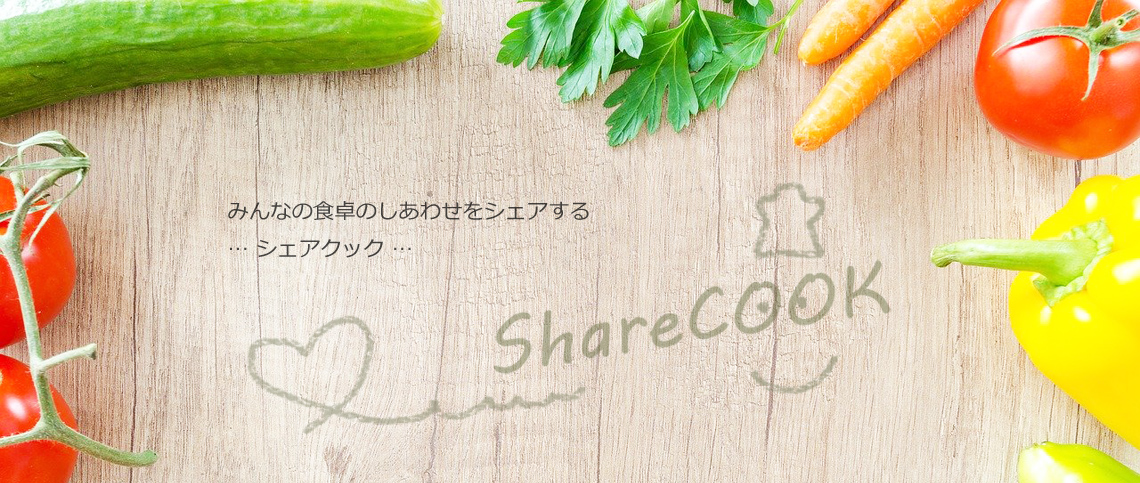
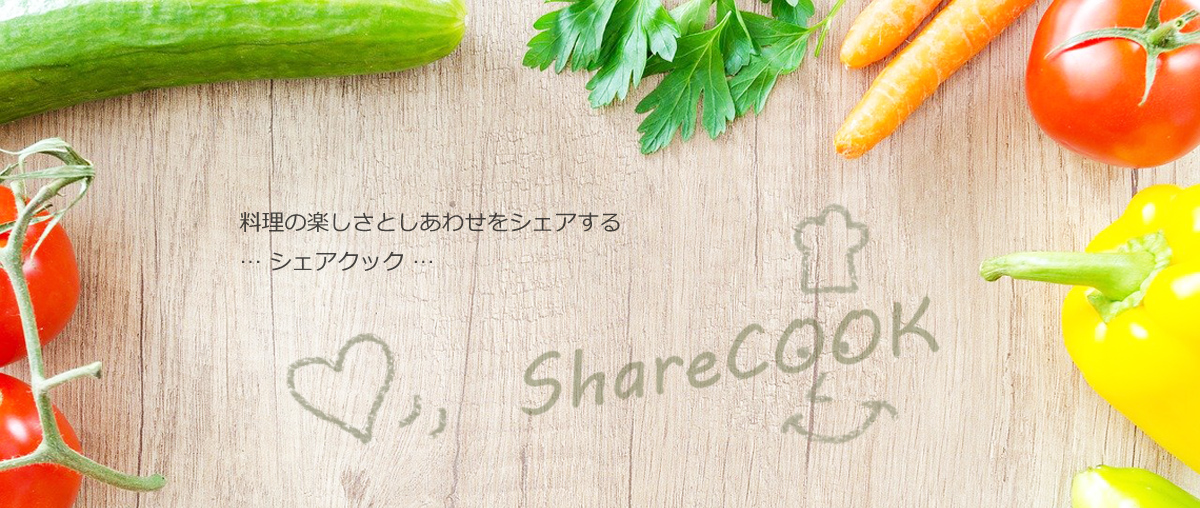
password reset functions and applying responsive function to toppage

diff --git a/public/css/common.css b/public/css/common.css
@@ -32,7 +32,13 @@ div.card .card-header{
 	color:#063;
 }
 
-
+img.top_pc { display: block !important; }
+img.top_sp { display: none !important; }
+ 
+@media only screen and (max-width: 768px) {
+    img.top_pc { display: none !important; }
+    img.top_sp { display: block !important; }
+}
 
 /* フッタ部 */
 

diff --git a/resources/views/workers/auth/passwords/reset.blade.php b/resources/views/workers/auth/passwords/reset.blade.php
@@ -1,20 +1,22 @@
-@extends('layouts.app')
+@extends('layouts.app_workers')
 
 @section('content')
 <div class="container">
     <div class="row justify-content-center">
         <div class="col-md-8">
             <div class="card">
-                <div class="card-header">{{ __('Reset Password') }}</div>
+                <div class="card-header">パスワード変更</div>
 
                 <div class="card-body">
-                    <form method="POST" action="{{ route('password.update') }}">
+                    メールアドレスと変更したいパスワードを入力し、変更を確定してください。<br/>
+                    <br/>
+                    <form method="POST" action="{{ route('workers.password.update') }}">
                         @csrf
 
                         <input type="hidden" name="token" value="{{ $token }}">
 
                         <div class="form-group row">
-                            <label for="email" class="col-md-4 col-form-label text-md-right">{{ __('E-Mail Address') }}</label>
+                            <label for="email" class="col-md-4 col-form-label text-md-right">メールアドレス</label>
 
                             <div class="col-md-6">
                                 <input id="email" type="email" class="form-control @error('email') is-invalid @enderror" name="email" value="{{ $email ?? old('email') }}" required autocomplete="email" autofocus>
@@ -28,7 +30,7 @@
                         </div>
 
                         <div class="form-group row">
-                            <label for="password" class="col-md-4 col-form-label text-md-right">{{ __('Password') }}</label>
+                            <label for="password" class="col-md-4 col-form-label text-md-right">パスワード</label>
 
                             <div class="col-md-6">
                                 <input id="password" type="password" class="form-control @error('password') is-invalid @enderror" name="password" required autocomplete="new-password">
@@ -42,7 +44,7 @@
                         </div>
 
                         <div class="form-group row">
-                            <label for="password-confirm" class="col-md-4 col-form-label text-md-right">{{ __('Confirm Password') }}</label>
+                            <label for="password-confirm" class="col-md-4 col-form-label text-md-right">パスワード確認</label>
 
                             <div class="col-md-6">
                                 <input id="password-confirm" type="password" class="form-control" name="password_confirmation" required autocomplete="new-password">
@@ -52,7 +54,7 @@
                         <div class="form-group row mb-0">
                             <div class="col-md-6 offset-md-4">
                                 <button type="submit" class="btn btn-primary">
-                                    {{ __('Reset Password') }}
+                                    変更する
                                 </button>
                             </div>
                         </div>

diff --git a/resources/views/auth/passwords/reset.blade.php b/resources/views/auth/passwords/reset.blade.php
@@ -5,16 +5,18 @@
     <div class="row justify-content-center">
         <div class="col-md-8">
             <div class="card">
-                <div class="card-header">{{ __('Reset Password') }}</div>
+                <div class="card-header">パスワード変更</div>
 
                 <div class="card-body">
+                    メールアドレスと変更したいパスワードを入力し、変更を確定してください。<br/>
+                    <br/>
                     <form method="POST" action="{{ route('password.update') }}">
                         @csrf
 
                         <input type="hidden" name="token" value="{{ $token }}">
 
                         <div class="form-group row">
-                            <label for="email" class="col-md-4 col-form-label text-md-right">{{ __('E-Mail Address') }}</label>
+                            <label for="email" class="col-md-4 col-form-label text-md-right">メールアドレス</label>
 
                             <div class="col-md-6">
                                 <input id="email" type="email" class="form-control @error('email') is-invalid @enderror" name="email" value="{{ $email ?? old('email') }}" required autocomplete="email" autofocus>
@@ -28,7 +30,7 @@
                         </div>
 
                         <div class="form-group row">
-                            <label for="password" class="col-md-4 col-form-label text-md-right">{{ __('Password') }}</label>
+                            <label for="password" class="col-md-4 col-form-label text-md-right">パスワード</label>
 
                             <div class="col-md-6">
                                 <input id="password" type="password" class="form-control @error('password') is-invalid @enderror" name="password" required autocomplete="new-password">
@@ -42,7 +44,7 @@
                         </div>
 
                         <div class="form-group row">
-                            <label for="password-confirm" class="col-md-4 col-form-label text-md-right">{{ __('Confirm Password') }}</label>
+                            <label for="password-confirm" class="col-md-4 col-form-label text-md-right">パスワード確認</label>
 
                             <div class="col-md-6">
                                 <input id="password-confirm" type="password" class="form-control" name="password_confirmation" required autocomplete="new-password">
@@ -52,7 +54,7 @@
                         <div class="form-group row mb-0">
                             <div class="col-md-6 offset-md-4">
                                 <button type="submit" class="btn btn-primary">
-                                    {{ __('Reset Password') }}
+                                    変更する
                                 </button>
                             </div>
                         </div>

diff --git a/resources/views/workers/auth/passwords/email.blade.php b/resources/views/workers/auth/passwords/email.blade.php
@@ -1,11 +1,11 @@
-@extends('layouts.app')
+@extends('layouts.app_workers')
 
 @section('content')
 <div class="container">
     <div class="row justify-content-center">
         <div class="col-md-8">
             <div class="card">
-                <div class="card-header">{{ __('Reset Password') }}</div>
+                <div class="card-header">パスワードリセット</div>
 
                 <div class="card-body">
                     @if (session('status'))
@@ -14,11 +14,14 @@
                         </div>
                     @endif
 
-                    <form method="POST" action="{{ route('password.email') }}">
+                    パスワードをリセットし変更するためのURLをメールでお送りします。<br/>
+                    会員登録されているメールアドレスを入力の上、送信ボタンを押してください。<br/>
+                    <br/>
+                    <form method="POST" action="{{ route('workers.password.email') }}">
                         @csrf
 
                         <div class="form-group row">
-                            <label for="email" class="col-md-4 col-form-label text-md-right">{{ __('E-Mail Address') }}</label>
+                            <label for="email" class="col-md-4 col-form-label text-md-right">メールアドレス</label>
 
                             <div class="col-md-6">
                                 <input id="email" type="email" class="form-control @error('email') is-invalid @enderror" name="email" value="{{ old('email') }}" required autocomplete="email" autofocus>
@@ -34,7 +37,7 @@
                         <div class="form-group row mb-0">
                             <div class="col-md-6 offset-md-4">
                                 <button type="submit" class="btn btn-primary">
-                                    {{ __('Send Password Reset Link') }}
+                                   メール送信
                                 </button>
                             </div>
                         </div>

diff --git a/resources/views/auth/passwords/email.blade.php b/resources/views/auth/passwords/email.blade.php
@@ -5,7 +5,7 @@
     <div class="row justify-content-center">
         <div class="col-md-8">
             <div class="card">
-                <div class="card-header">{{ __('Reset Password') }}</div>
+                <div class="card-header">パスワードリセット</div>
 
                 <div class="card-body">
                     @if (session('status'))
@@ -14,11 +14,14 @@
                         </div>
                     @endif
 
+                    パスワードをリセットし変更するためのURLをメールでお送りします。<br/>
+                    会員登録されているメールアドレスを入力の上、送信ボタンを押してください。<br/>
+                    <br/>
                     <form method="POST" action="{{ route('password.email') }}">
                         @csrf
 
                         <div class="form-group row">
-                            <label for="email" class="col-md-4 col-form-label text-md-right">{{ __('E-Mail Address') }}</label>
+                            <label for="email" class="col-md-4 col-form-label text-md-right">メールアドレス</label>
 
                             <div class="col-md-6">
                                 <input id="email" type="email" class="form-control @error('email') is-invalid @enderror" name="email" value="{{ old('email') }}" required autocomplete="email" autofocus>
@@ -34,7 +37,7 @@
                         <div class="form-group row mb-0">
                             <div class="col-md-6 offset-md-4">
                                 <button type="submit" class="btn btn-primary">
-                                    {{ __('Send Password Reset Link') }}
+                                   メール送信
                                 </button>
                             </div>
                         </div>

diff --git a/app/Notifications/WorkerPasswordResetNotification.php b/app/Notifications/WorkerPasswordResetNotification.php
@@ -1,0 +1,22 @@
+<?php
+namespace App\Notifications;
+
+use Illuminate\Auth\Notifications\ResetPassword as ResetPasswordNotification;
+use Illuminate\Notifications\Messages\MailMessage;
+
+class WorkerPasswordResetNotification extends ResetPasswordNotification
+{
+    public function toMail($notifiable)
+    {
+        return (new MailMessage)
+            /*
+            ->line('You are receiving this email because we received a password reset request for your account.')
+            ->action('Reset Password', url(config('url').route('workers.password.reset', $this->token, false)))
+            ->line('If you did not request a password reset, no further action is required.');
+            */
+            ->subject('パスワード変更URLのお知らせ[ShareCOOK]')
+            ->line('サイトでのパスワード変更リクエストを受付しました。下記URLにアクセスし、変更を完了してください。')
+            ->action('パスワード変更URL', url(config('url').route('workers.password.reset', $this->token, false)))
+            ->line('※変更中止する場合、これ以上の操作は不要です。');
+    }
+}

diff --git a/app/Http/Controllers/Workers/Auth/ResetPasswordController.php b/app/Http/Controllers/Workers/Auth/ResetPasswordController.php
@@ -5,6 +5,7 @@ namespace App\Http\Controllers\Workers\Auth;
 use App\Http\Controllers\Controller;
 use App\Providers\RouteServiceProvider;
 use Illuminate\Foundation\Auth\ResetsPasswords;
+use Illuminate\Http\Request;
 
 class ResetPasswordController extends Controller
 {
@@ -26,5 +27,26 @@ class ResetPasswordController extends Controller
      *
      * @var string
      */
-    protected $redirectTo = RouteServiceProvider::HOME;
+    protected $redirectTo = RouteServiceProvider::WORKERS_HOME;
+
+    public function __construct()
+    {
+        $this->middleware('guest:workers');
+    }
+
+    public function showResetForm(Request $request, $token = null)
+    {
+        return view('workers.auth.passwords.reset')->with(['token' => $token, 'email' => $request->email]);
+    }
+
+    protected function guard()
+    {
+        return \Auth::guard('workers');
+    }
+
+    public function broker()
+    {
+        return \Password::broker('workers');
+    }
+
 }

diff --git a/app/Notifications/UserPasswordResetNotification.php b/app/Notifications/UserPasswordResetNotification.php
@@ -1,0 +1,17 @@
+<?php
+namespace App\Notifications;
+
+use Illuminate\Auth\Notifications\ResetPassword as ResetPasswordNotification;
+use Illuminate\Notifications\Messages\MailMessage;
+
+class UserPasswordResetNotification extends ResetPasswordNotification
+{
+    public function toMail($notifiable)
+    {
+        return (new MailMessage)
+            ->subject('パスワード変更URLのお知らせ[ShareCOOK]')
+            ->line('サイトでのパスワード変更リクエストを受付しました。下記URLにアクセスし、変更を完了してください。')
+            ->action('パスワード変更URL', url(config('url').route('password.reset', $this->token, false)))
+            ->line('※変更中止する場合、これ以上の操作は不要です。');
+    }
+}

diff --git a/resources/views/index.blade.php b/resources/views/index.blade.php
@@ -4,8 +4,12 @@
 <div class="container">
     <div class="row justify-content-center">
         <div class="topview container-fluid p-0">
-            <img src="images/top_01.jpg">
-            <div class="row" style="border-top:4px #FF6633 solid;">
+            <div class="row" style="border-bottom:4px #FF6633 solid;">
+                <img src="images/top_01.jpg" class="img-fluid top_pc">
+                <img src="images/top_s.jpg" class="img-fluid top_sp">
+            </div>
+            <div class="row">
+                
                 <div class="top_box1 col-md-6 p-3 text-center font-weight-bold">
                     シェアクックは、料理を作りたい人と<br />
                     作って欲しい人をマッチングするサービスです<br />

diff --git a/app/User.php b/app/User.php
@@ -6,6 +6,8 @@ use Illuminate\Contracts\Auth\MustVerifyEmail;
 use Illuminate\Foundation\Auth\User as Authenticatable;
 use Illuminate\Notifications\Notifiable;
 
+use App\Notifications\UserPasswordResetNotification;
+
 class User extends Authenticatable
 {
     use Notifiable;
@@ -37,6 +39,13 @@ class User extends Authenticatable
         'email_verified_at' => 'datetime',
     ];
 
+    /**
+     * パスワードリセットメールの日本語化用にオーバーライド
+     */
+    public function sendPasswordResetNotification($token)
+    {
+        $this->notify(new UserPasswordResetNotification($token));
+    }
     
     /**
      * カスタマー予約テーブル(UserReservations)との連結

diff --git a/app/Worker.php b/app/Worker.php
@@ -6,6 +6,7 @@ use Illuminate\Contracts\Auth\MustVerifyEmail;
 use Illuminate\Foundation\Auth\User as Authenticatable;
 use Illuminate\Notifications\Notifiable;
 use Cloudinary;
+use App\Notifications\WorkerPasswordResetNotification;
 
 class Worker extends Authenticatable
 {
@@ -37,6 +38,14 @@ class Worker extends Authenticatable
     protected $casts = [
         'email_verified_at' => 'datetime',
     ];
+
+    /**
+     * パスワードリセット用にオーバーライド
+     */
+    public function sendPasswordResetNotification($token)
+    {
+        $this->notify(new WorkerPasswordResetNotification($token));
+    }
 
     /**
      * Cloudinary用のpublic_idを取得

diff --git a/app/Http/Controllers/Workers/Auth/ForgotPasswordController.php b/app/Http/Controllers/Workers/Auth/ForgotPasswordController.php
@@ -19,4 +19,23 @@ class ForgotPasswordController extends Controller
     */
 
     use SendsPasswordResetEmails;
+
+    public function __construct()
+    {
+        $this->middleware('guest:workers');
+    }
+    
+    public function showLinkRequestForm()
+    {
+        return view('workers.auth.passwords.email');
+    }
+    protected function guard()
+    {
+        return \Auth::guard('workers');
+    }
+
+    public function broker()
+    {
+        return \Password::broker('workers');
+    }
 }
